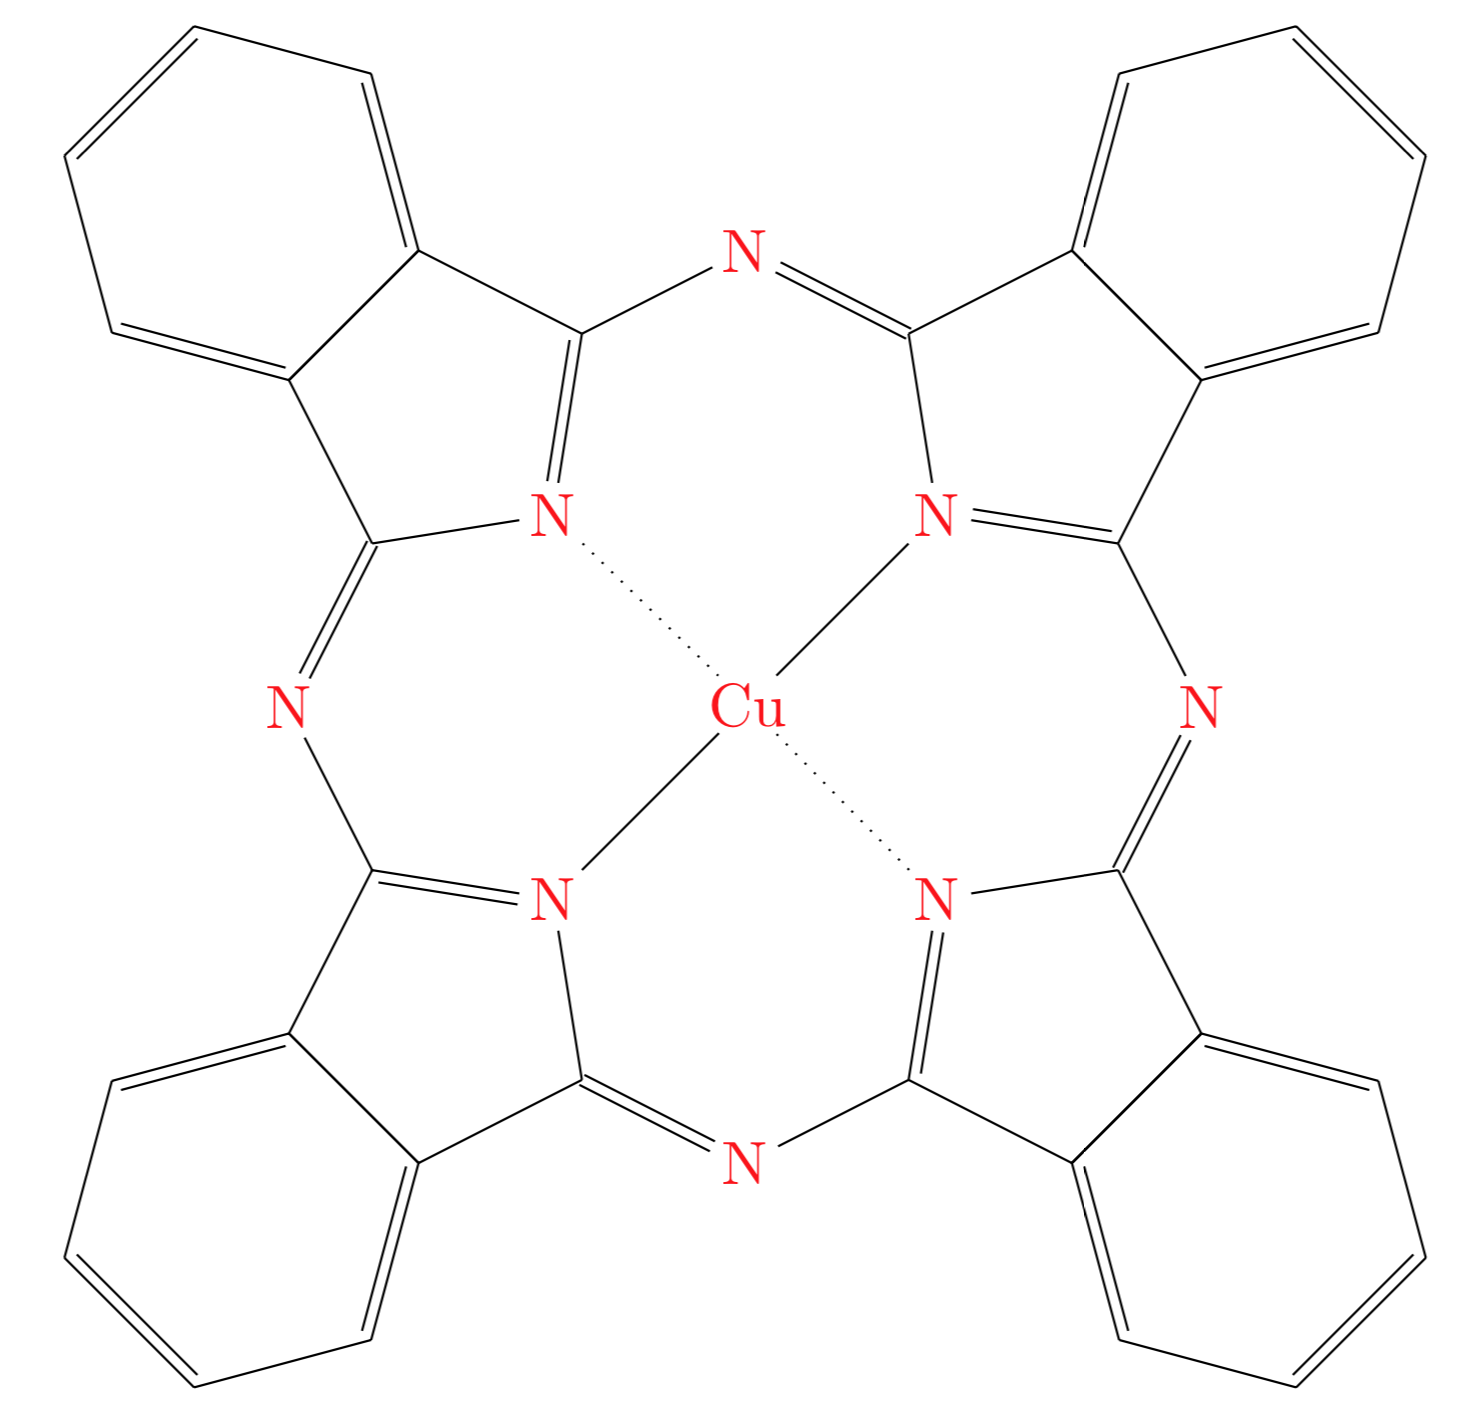
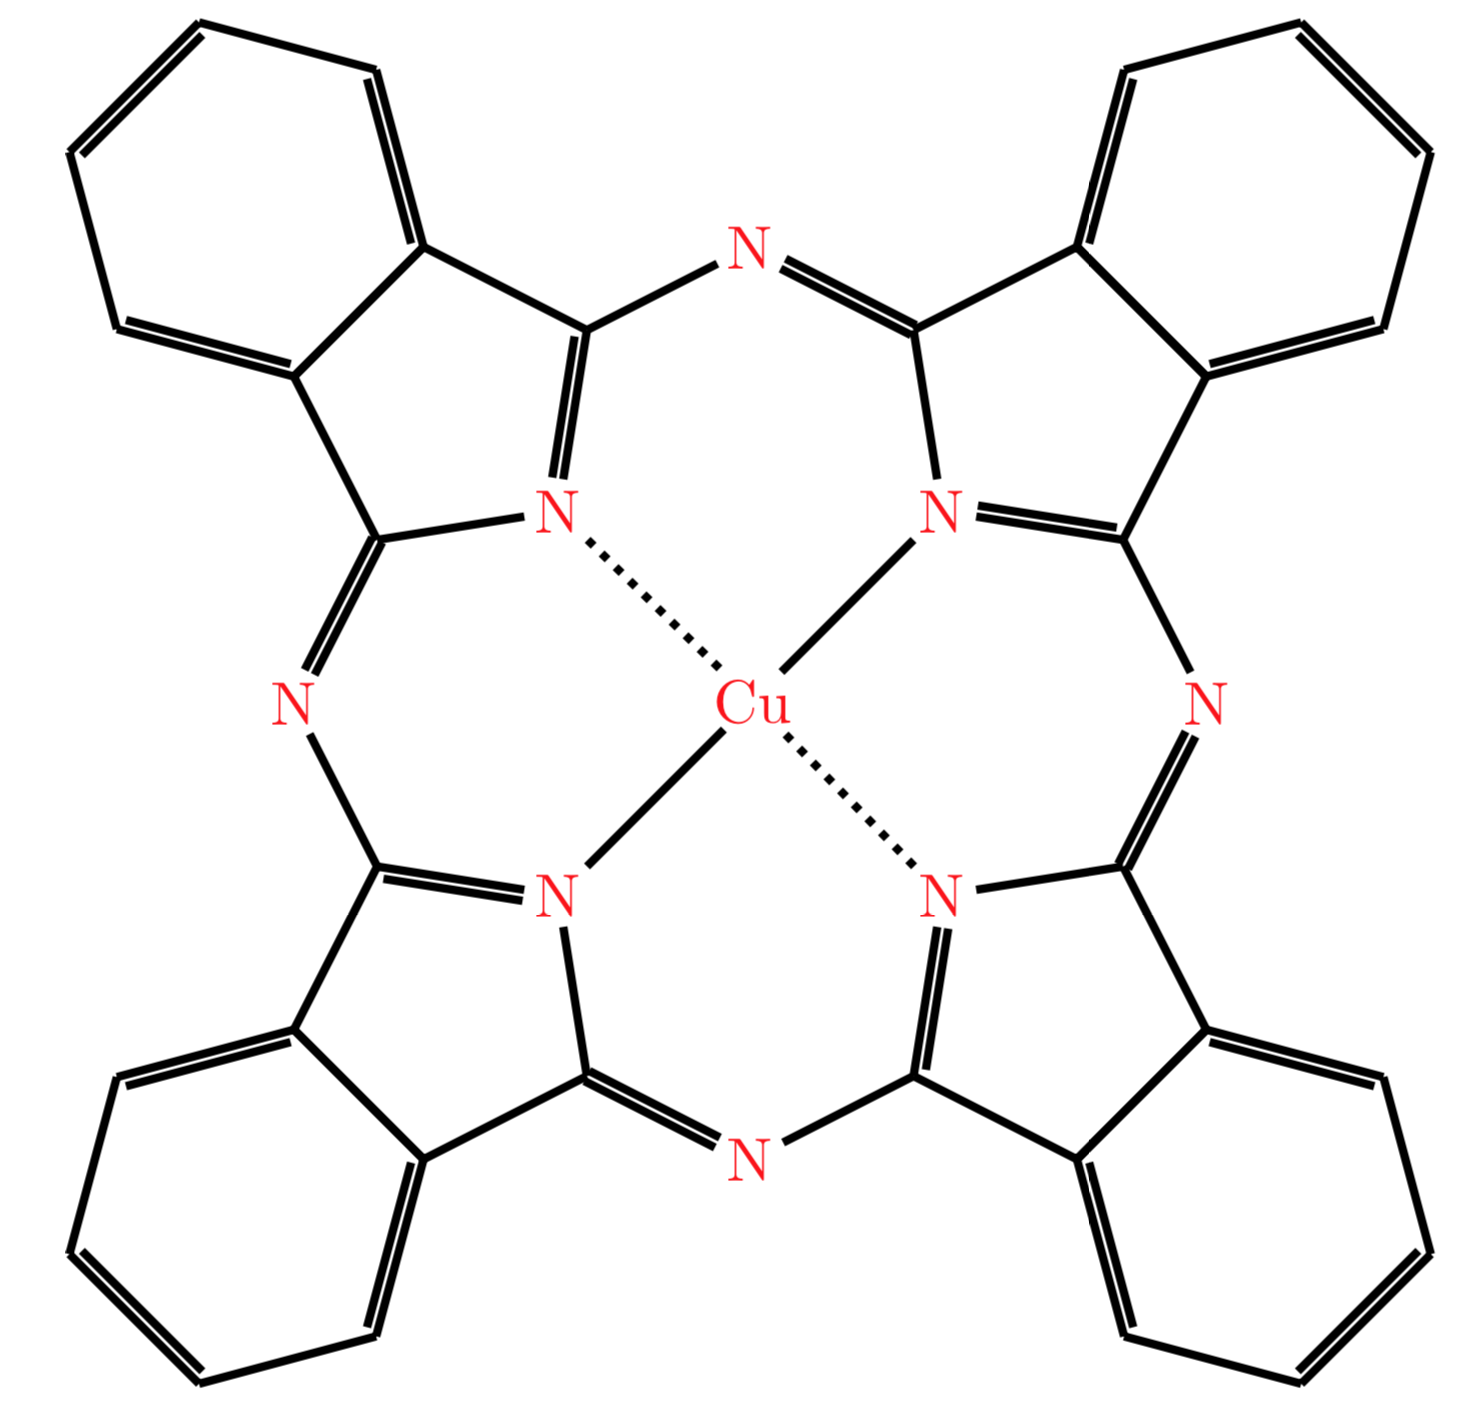
add thicker lines

diff --git a/phthalocyanine.tex b/phthalocyanine.tex
@@ -6,7 +6,7 @@
 
 \usepackage{chemfig}
 \setchemfig{atom style={red,scale=1}}
-
+\setchemfig{bond style={line width=1.5pt}}
 
 \begin{document}
 
@@ -88,6 +88,41 @@
   )
 }
 \caption{Iron Phthalocyanine (MnPc)}
+\end{figure}
+
+
+\begin{figure}
+\centering
+\chemfig{
+  -S([:90]=O)([:-90]=O)(-NaO)
+}
+\caption{tetrasodium salt}
+\end{figure}
+
+\begin{figure}
+\centering
+\chemfig[atom style={red,scale=0.7},bond style={line width=1pt}]{
+  N?[a]=[::+63]*5(
+    -N?[b]=(
+      -N=[::-54]*5(
+        -N?[c]=(
+          -N=[::-54]*5(
+            -N?[d]=(
+              -N=[::-54]*5(
+                -N(-[::-54,1.5]Cu?[b,,dotted]?[c]?[d,,dotted])
+                =[,,1]?[a]-(*6(=-=(-S([:0]=O)([:180]=O)([:-90]-ONa))-=-))--
+              )
+            )
+            -(*6(=-=(-S([:90]=O)([:-90]=O)(-ONa))-=-))--
+          )
+        )
+        -(*6(=-=-(-S([:90]=O)([:-90]=O)([:180]-NaO))=-))--
+      )
+    )
+    -(*6(=-=(-S([:90]=O)([:-90]=O)([:180]-NaO))-=-))--
+  )
+}
+\caption{Copper phthalocyanine-$3,4^{'},4^{"},4^{"'}$-tetrasulfonic acid tetrasodium salt}
 \end{figure}
 
 \end{document}  

diff --git a/README.md b/README.md
@@ -4,4 +4,8 @@ LaTeX document to generate Phthalocyanine and related molecules using the ChemFi
 
 The rendered copper Phthalocyanine molecule looks as follows:
 
-![copper Phthalocyanine](figs/CuPc.png)
+![Copper phthalocyanine](figs/CuPc.png)
+
+The water-soluble version is here:
+
+![Copper phthalocyanine-3,4′,4″,4″′-tetrasulfonic acid tetrasodium salt](figs/CuPcTetra.png)
